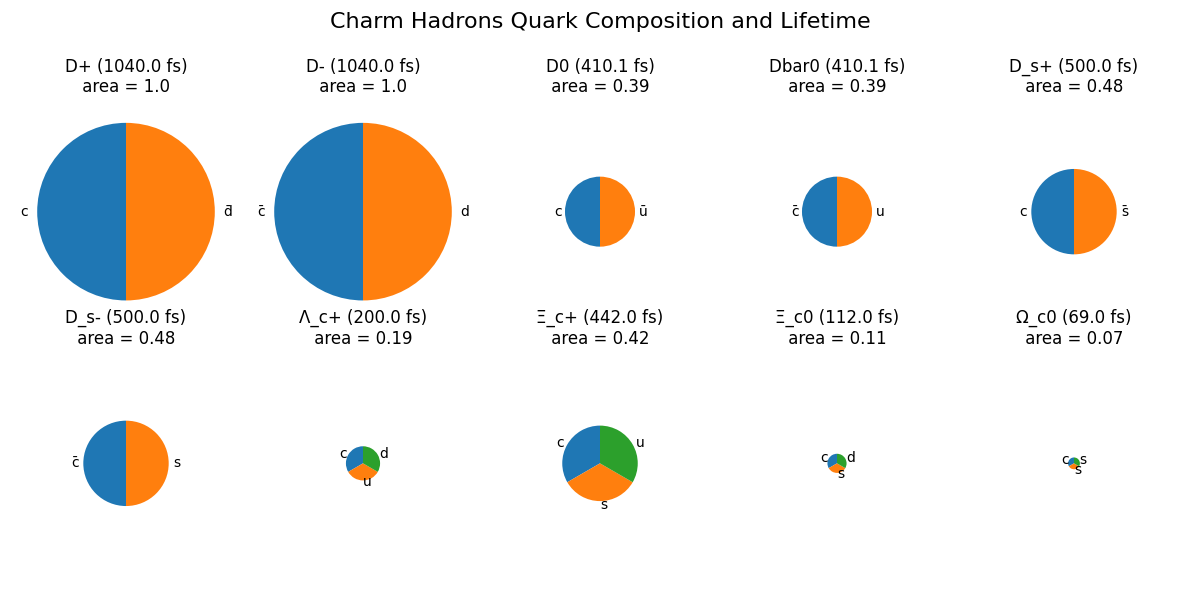
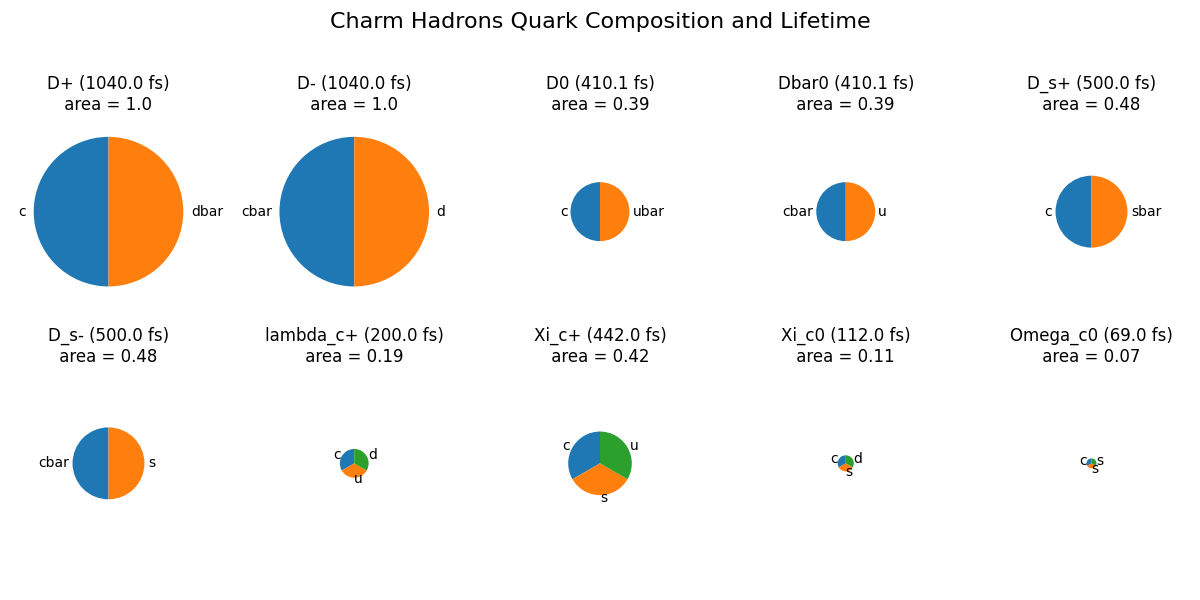
Restating

diff --git a/charm_hadrons.py b/charm_hadrons.py
@@ -23,15 +23,17 @@ areas = [lifetime / max(hadron_lifetimes)  for lifetime in hadron_lifetimes]
 fig, axs = plt.subplots(2, 5, figsize=(12, 6))
 fig.suptitle("Charm Hadrons Quark Composition and Lifetime", fontsize=16)
 
+#subplots for all charm hadrons 
 for i, ax in enumerate(axs.flatten()):
     if i < len(hadron_names):
         quarks = quark_compositions[i].split()
         quark_numbers = len(quarks)
+        # Distinguising between Mesons ans Baryons
         if quark_numbers == 2:
-            quark_percentages = [0.5,0.5]
+            quark_percentages = [0.5,0.5] # Creates two slices visualizing two quarks
             ax.pie(quark_percentages, labels=quarks,  startangle=90, radius=areas[i])
-        if quark_numbers == 3:
-            quark_percentages = [1/3,1/3,1/3]
+        if quark_numbers == 3:          
+            quark_percentages = [1/3,1/3,1/3]  # Creates three slices visualizing three quarks
             ax.pie(quark_percentages, labels=quarks, startangle=90, radius=areas[i])
         ax.set_title(hadron_names[i] + f" ({hadron_lifetimes[i]} fs)\n area = {round(areas[i],2)} ")
 

diff --git a/README.md b/README.md
@@ -1,16 +1,16 @@
 # Charm-Hadrons-Pie-Plots
 
 
-This Python script visualizes the quark composition and lifetimes of charm hadrons using pie charts. The area of the pie chart is proportional to the lifetime of the hadron.
+This Python script visualizes the quark composition and lifetimes of charm hadrons using pie charts. The pie charts are created using the quark percentages as data, and the labels are set to "c," "u," and "d" representing the charm, up, and down quarks, respectively. The colors of the pie charts are not to be confused with the colors of the quark themselves. The area of the pie chart is proportional to the lifetime of the hadron and is normalized to the largest lifetime for comparision. 
 
 ![Pie Charts](./charm_hadrons.png)
 
-## Requirements
-
+## Installation and Requirements
+Make sure to have the following basic requirements installed on your PC:
 - Python 3
 - Matplotlib (install with `pip install matplotlib`)
 
-## Usage
+Running the code:
 
 1. Clone the repository and execute the following code:
 
@@ -19,4 +19,4 @@ This Python script visualizes the quark composition and lifetimes of charm hadro
    cd Charm-Hadrons-Pie-Plots
    python3 charm_hadrons.py
    ```
-2. A png file named will be saved that will diplay quark compositions of ground-state charm meson and baryons according to quark model.
+2. A png file named "charm_hadrons.png" will be saved that will diplay quark compositions of ground-state charm meson and baryons according to quark model (as an example shown above).
